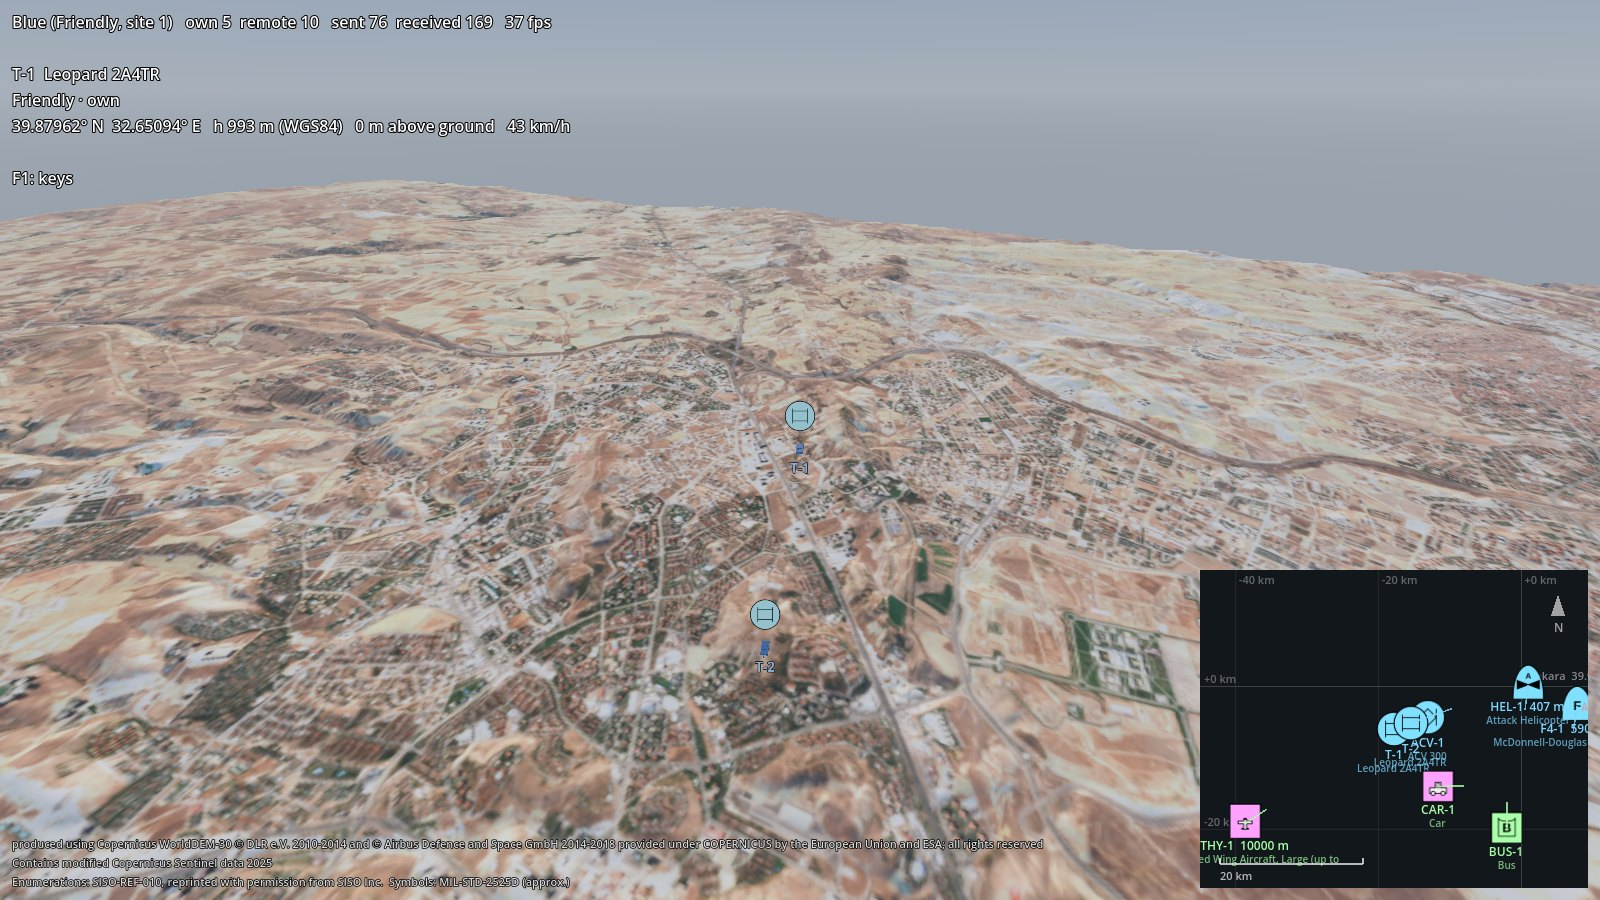
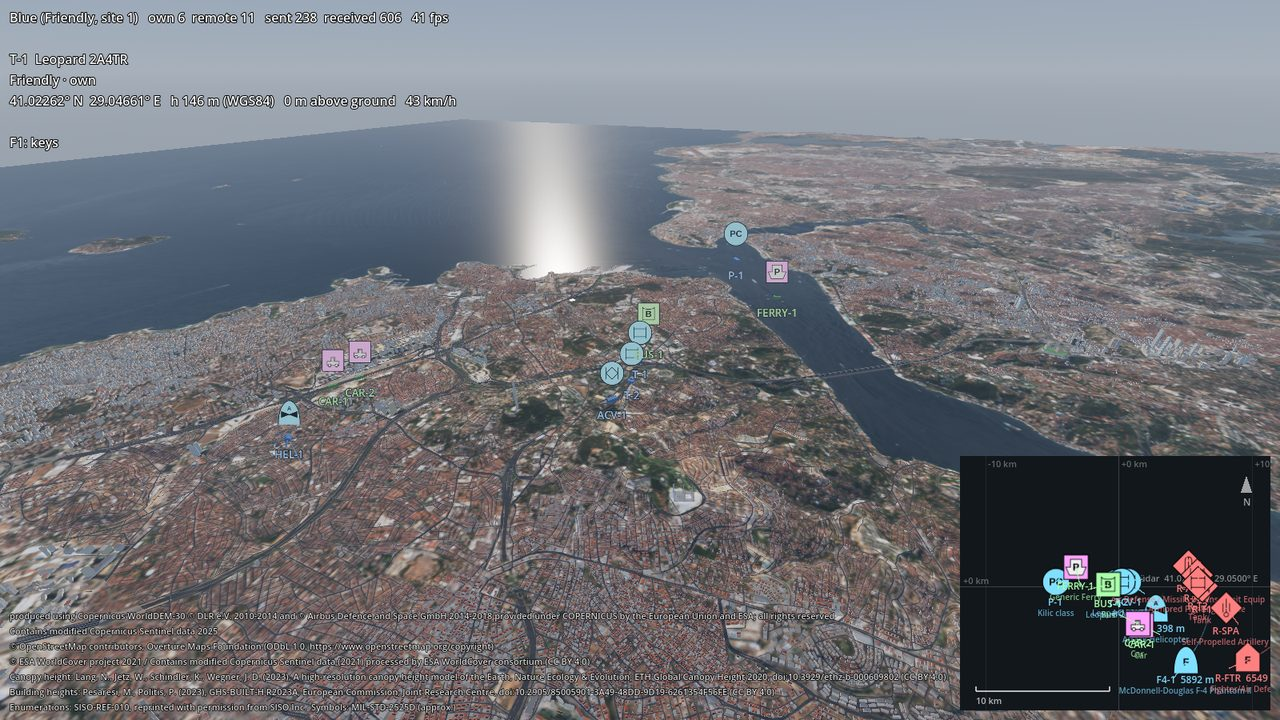
dis3d in Uskudar; NaN-safe visibility queries; headless layers; no orphans; towers
- demo/dis3d: the godot-dis exercise around Uskudar (origin 41.02/29.05, 60 km
  package first, ships on the water surface via DemoUnitMover.surface, patrol boat
  shot, tighter minimap); docs/demo-3d.md and screenshots.
- GeoVisibility line_of_sight / raycast / viewshed / trace return at once for NaN or
  infinite inputs (they looped forever on height_at outside the package).
- GeoTerrain frees its internal children at once and no longer clears on leaving
  the tree: no orphans when it is freed.
- Layers create no meshes / MultiMeshes / ring viewports under the headless display
  server, but keep data, counts and queries.
- Slender towers (>= 60 m, > 3x taller than wide) as light concrete without windows.

diff --git a/docs/demo-3d.md b/docs/demo-3d.md
@@ -1,12 +1,16 @@
 # 3D DIS demo
 
-`demo/dis3d.tscn` is one participant of the godot-dis two-sided exercise around Ankara, shown in 3D on real terrain.
+`demo/dis3d.tscn` is one participant of the godot-dis two-sided exercise around Üsküdar (Istanbul), shown in 3D on
+real terrain with its buildings, trees, roads and the Bosphorus (see [city view](city.md)).
 It publishes its own units with godot-dis `DisEntity` and shows everything else on the network: the other side (the
 godot-dis 2D demo, or a second 3D copy) and civilian traffic sent by an independent DIS implementation
 (Open-DIS Python). Units are simple models plus MIL-STD-2525 symbols (godot-milsymbol); the godot-dis tactical map
 is the minimap.
 
-![3D DIS demo: blue, red and civilian units around Ankara](demo3d/overview.jpg)
+![3D DIS demo: blue, red and civilian units around Üsküdar](demo3d/overview.jpg)
+
+The exercise is invented: unit positions, routes and the "red" side have nothing to do with real forces, and no
+military site is shown or placed.
 
 ## Setup (once)
 The demo uses the sibling repositories of the workspace; `tools/link_siblings.py` links them in as directory
@@ -16,10 +20,12 @@ and tactical map, so both demos run the same exercise).
 ```powershell
 cd path\to\godot-geo
 .\tools\.venv\Scripts\python.exe tools\link_siblings.py
-.\tools\.venv\Scripts\python.exe -I tools\build_terrain.py --lat 39.9334 --lon 32.8597 --size 60000 --spacing 15 --out terrain\ankara_60km
+.\tools\.venv\Scripts\python.exe -I tools\build_terrain.py --lat 41.02 --lon 29.05 --size 60000 --spacing 10 --color-spacing 10 --scene S2A_35TPF_20250722_0_L2A --layers water,landcover,canopy,buildings,roads --water-spacing 10 --out terrain\uskudar
 ```
-godot-dis must be built (`addons/dis/bin`). The exercise spans about ±27 km, hence the 60 km package; without it the
-demo falls back to `terrain/ankara` (40 km) and units beyond its edge keep their reported height.
+godot-dis must be built (`addons/dis/bin`). The exercise spans about ±14 km (the aircraft; the red land units are
+4–8 km east of the origin), hence the 60 km package (about 11 minutes the first time; or unzip the release asset
+`godot-geo-terrain-uskudar-60km.zip`). Without it the demo falls back to `terrain/uskudar_10km`, where the red side
+is off the terrain and keeps its reported height.
 
 ## Run
 Blue in 3D, red in the godot-dis 2D demo, civilian traffic from Python (three terminals):
@@ -54,44 +60,50 @@ Options after `--`:
   (land unit below / above the terrain by more than 0.5 m), `low` (aircraft below 50 m), `gap` (no PDU for 6 s);
   plus frame times. `--report file.json` saves the details.
 - `--shots dir [--warmup s]`: the screenshots of this document.
-- `demo_traffic.py --start S` skips S seconds ahead (the airliner's first turn is ~400 s in), `--rate HZ` changes
+- `demo_traffic.py --start S` skips S seconds ahead (the airliner's first turn is ~310 s in), `--rate HZ` changes
   the update rate.
 
 A full self-check, on port 3200 so it does not disturb a running demo (two terminals):
 ```powershell
-cd path\to\godot-dis; .\tools\.venv\Scripts\python.exe tools\demo_traffic.py --port 3200 --start 385 --seconds 90
+cd path\to\godot-dis; .\tools\.venv\Scripts\python.exe tools\demo_traffic.py --port 3200 --start 295 --seconds 90
 cd path\to\godot-geo; & "C:\path\to\godot.exe" --path . res://demo/dis3d.tscn -- --port 3200 --check 60
 ```
 ```
-check: 9 units, 490 samples
-  THY-1  remote  air  off terrain  OK
-  CAR-1  remote  land agl -0.0..0.0 m  OK
+check: 11 units, 489 samples
+  P-1    own     land agl -0.0..0.0 m  OK
+  THY-1  remote  air  agl 2867.3..3012.2 m  OK
+  FERRY-1 remote  land agl -0.1..0.0 m  OK
   ...
 check: no problems
-frames: 1321, mean 16.67 ms, 99th percentile 18.77 ms, worst 19.46 ms
+frames: 3421, mean 16.67 ms, 99th percentile 17.97 ms, worst 23.04 ms
 ```
+(Üsküdar 60 km package with all layers, vsync on, RTX 4080, 2026-11-03.) Ships count as "land" here: they must sit
+on the water surface, which is the terrain surface there.
 This found two bugs before release: the airliner reversed on the spot at the end of a back-and-forth route (now a
 racetrack), and godot-dis smoothing started from the previous frame's pose, so every update made fast entities stall
 for a frame and catch up (fixed in godot-dis).
 
 ## How the units meet the ground
 - **Own units:** `DemoUnitMover.ground = GeoTerrain`. Land units drive on `height_at` and tilt with the slope;
-  aircraft keep at least 150 m above the ground. `DisEntity` publishes the result, so other simulations see the units
+  ships (`surface`, the patrol boat P-1) ride on it too, which over water is the sea surface; aircraft keep at least
+  150 m above the ground. `DisEntity` publishes the result, so other simulations see the units
   on our terrain.
 - **Remote units:** `DisEntityManager.ground_path = GeoTerrain`. Land platforms, life forms and cultural features are
   put on the local terrain and tilted to it (heading kept); aircraft keep their reported height. The 2D demo and the
   Python traffic send land units at the height of the tangent plane, so without the clamp they would be up to
-  hundreds of metres under or above the hills.
-- **Alignment:** the scene's `DisGeoOrigin` (39.9334, 32.8597, 938 m) has the package origin's latitude and longitude
-  but another height, so `GeoTerrain` shifts the terrain by −938 m automatically (see geo-terrain.md).
+  hundreds of metres under or above the hills. Ships are not clamped; the traffic sends the ferry at the Bosphorus
+  surface (36.3 m above the tangent plane, the geoid height), which matches the package's water within 0.1 m.
+- **Alignment:** the scene's `DisGeoOrigin` (41.02, 29.05, 0 m) is the package origin, as in the godot-dis demo.
 
 ## Views
 | | |
 |---|---|
 | ![](demo3d/tank_close.jpg) own tank on the terrain | ![](demo3d/remote_tank.jpg) red tank from the 2D demo, clamped |
 | ![](demo3d/helicopter.jpg) helicopter with its ground line | ![](demo3d/civilian.jpg) civilian traffic from Open-DIS Python |
-| ![](demo3d/exercise.jpg) own tanks from 6 km | |
+| ![](demo3d/exercise.jpg) own tanks from 6 km | ![](demo3d/patrol_boat.jpg) patrol boat P-1 in the Bosphorus |
 
 <sub>Contains modified Copernicus Sentinel data 2025. Elevation produced using Copernicus WorldDEM-30 © DLR e.V.
 2010-2014 and © Airbus Defence and Space GmbH 2014-2018 provided under COPERNICUS by the European Union and ESA; all
-rights reserved. Enumerations: SISO-REF-010, reprinted with permission from SISO Inc.</sub>
+rights reserved. © OpenStreetMap contributors, Overture Maps Foundation (ODbL). © ESA WorldCover project 2021. Canopy
+height: ETH Global Canopy Height 2020 (CC BY 4.0). Building heights: GHSL GHS-BUILT-H R2023A (CC BY 4.0).
+Enumerations: SISO-REF-010, reprinted with permission from SISO Inc.</sub>

diff --git a/docs/geo-terrain.md b/docs/geo-terrain.md
@@ -73,6 +73,11 @@ the ground by the eye or antenna height):
 | `obstacle` | what blocked: `"terrain"`, `"building"`, `"tree"`; `""` when visible |
 | `building_id` | the blocking building's index in the package, when `obstacle` is `"building"` |
 
+An end point that is NaN or infinite (typically `height_at` of a point outside the package) gives at once
+`visible: false`, `partial: true`, `distance` and `clearance` NaN and an `error` text; `raycast` with such an origin
+or a zero direction returns `hit: false` with `error`, and `viewshed` with a NaN eye or radius returns `null`. No
+engine error is pushed, since a moving unit may meet this every frame.
+
 `mask` (`GeoVisibility.TERRAIN | BUILDINGS | TREES`, default `ALL`) picks what blocks; layers the package does not
 have are ignored. Buildings are blocks: the footprint (with holes) from its base, or its `min_height` for parts
 above the ground, to the top of the walls plus half the roof (roof shapes are not modelled in queries); the test
@@ -137,6 +142,11 @@ the package frame and stream around the camera; heavy work runs on `WorkerThread
 | `GeoBuildingLayer` | `buildings.bin` | per 500 m tile: up to `max_distance` (4 km) every building, walls with windows from the shader, flat / hipped / gabled / pyramidal roofs, domes; beyond, to `far_distance` (12 km), buildings ≥ `far_min_height` (20 m) as flat blocks |
 | `GeoRoadLayer` | `roads.bin` | roads painted by Godot's 2D renderer into two textures around the camera (2 km at 1 m / px, 8 km at 4 m / px; asphalt, pavement, rail) and blended by the terrain shader; bridge decks as meshes; tunnels not drawn |
 | `GeoTreeLayer` | `landcover.png`, `canopy.png`, `footprints.png` | deterministic placement per 10 m sample (tree class: `density` trees; elsewhere one where the canopy is ≥ 3 m), none on water or buildings; 3D low-poly trees to 600 m, impostor cards to 3 km |
+
+Under the headless display server (`--headless`: tests, servers, CI) the layers create no meshes, MultiMeshes or
+ring viewports (the dummy renderer rejects them); they still load their data, count what they would draw and serve
+the visibility queries, so scenes need not switch them off. Slender structures (at least 60 m tall and over three
+times as tall as wide, such as the Çamlıca TV tower) are drawn as bare light concrete without windows.
 
 The building layer and the visibility queries share one decoder (`GeoTerrainPackage.buildings_data()`,
 `GeoBuildingData`, thread-safe).

diff --git a/CHANGELOG.md b/CHANGELOG.md
@@ -3,6 +3,13 @@
 All notable changes to this project are documented here. Versions follow [semver](https://semver.org/).
 
 ## [Unreleased]
+### Fixed
+- `line_of_sight`, `raycast`, `viewshed` and `GeoVisibility.trace` return at once for NaN / infinite inputs (an end
+  point outside the package from `height_at`) instead of looping forever; results carry `error`.
+- Freeing a `GeoTerrain` no longer leaves its internal children as orphans (they were queue-freed outside the tree).
+- Layers create no render resources under the headless display server (dummy renderer errors: "wrong RID",
+  "multimesh is null").
+
 ### Added
 - Water layer: `build_terrain.py --layers water [--water-spacing]` rasterises Overture Maps `base/water` polygons
   (OpenStreetMap coastline, lakes, rivers; read with pyarrow from the public bucket, cached) into `water.png`, an
@@ -26,6 +33,8 @@ All notable changes to this project are documented here. Versions follow [semver
   (one picture per bookmark + frame times), `--check` (layers, counts, frame times, known lines of sight, exit code),
   `--bench` (fixed route at 150 m and 500 m, frame time percentiles); `demo/places_sheet.py` contact sheet. The
   visibility demo prefers `terrain/uskudar_10km`.
+- `demo/dis3d.tscn` moved to Üsküdar with the godot-dis exercise (origin 41.02 N 29.05 E, 60 km package first,
+  ships on the water surface, patrol boat view, new screenshots).
 - Test package `tests/data/uskudar_small` (3 km, Üsküdar seafront, with all layers; ODbL for the OpenStreetMap
   derived files).
 - `tools/build_terrain.py`: builds a terrain package (height EXR, Sentinel-2 colour PNG, `terrain.json`) on the local
